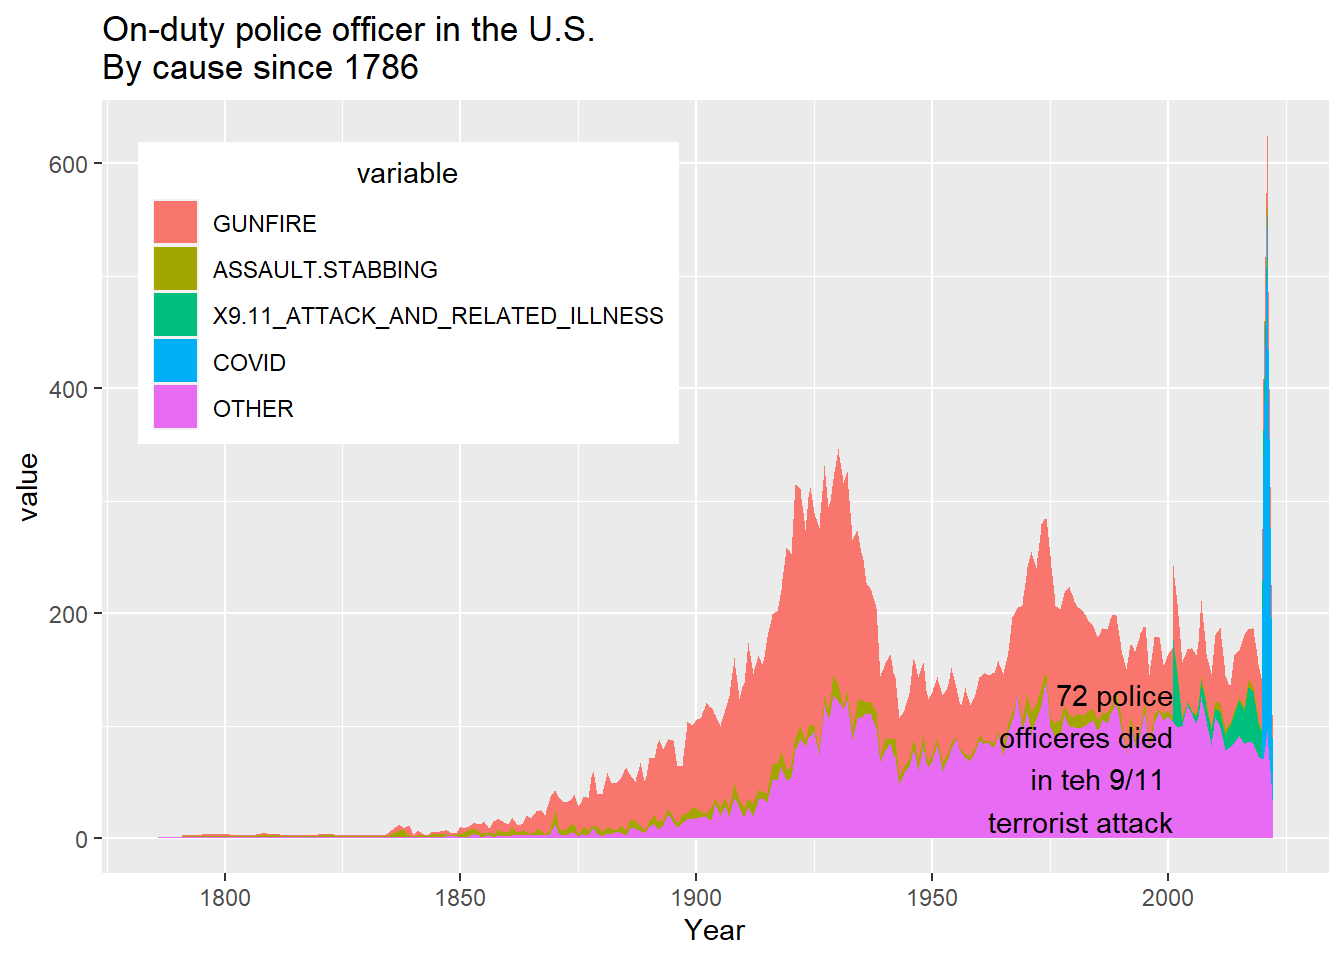
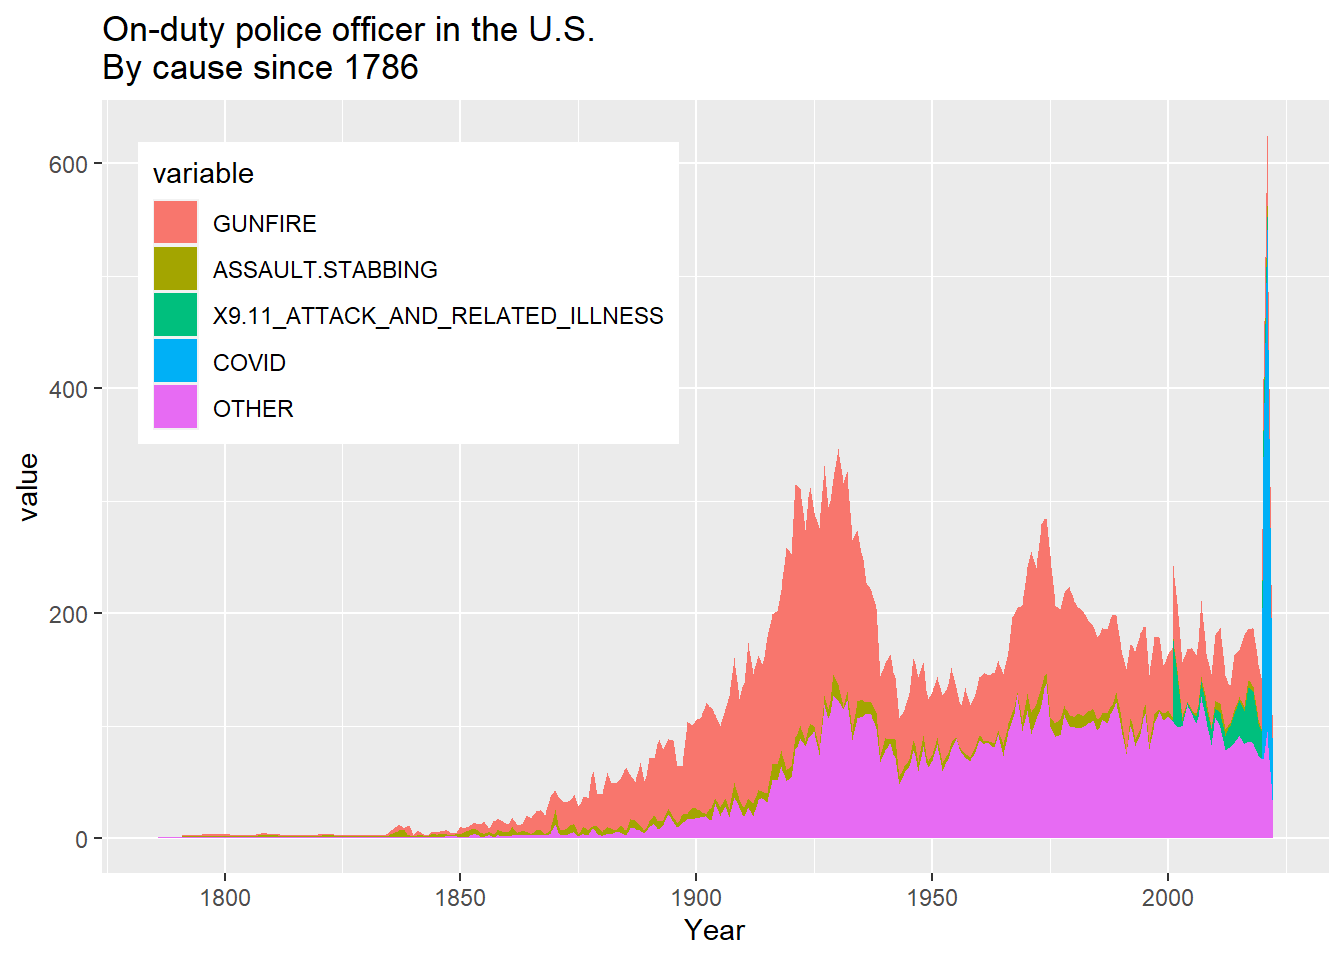
additional changes to code script for viz

Changed region(s): [[0.7188, 0.7188, 0.875, 0.875], [0.25, 0.1562, 0.3438, 0.1875], [0.125, 0.1562, 0.1875, 0.1875]]

diff --git a/docs/visualization_exercise.html b/docs/visualization_exercise.html
@@ -228,9 +228,9 @@ code span.wa { color: #60a0b0; font-weight: bold; font-style: italic; } /* Warni
 </div>
 </div>
 <div class="cell">
-<div class="sourceCode cell-code" id="cb6"><pre class="sourceCode r code-with-copy"><code class="sourceCode r"><span id="cb6-1"><a href="#cb6-1" aria-hidden="true" tabindex="-1"></a>lawdata<span class="ot">&lt;-</span><span class="fu">read.csv</span>(<span class="st">"data/lawenforcementdata.csv"</span>)</span></code><button title="Copy to Clipboard" class="code-copy-button"><i class="bi"></i></button></pre></div>
+<div class="sourceCode cell-code" id="cb6"><pre class="sourceCode r code-with-copy"><code class="sourceCode r"><span id="cb6-1"><a href="#cb6-1" aria-hidden="true" tabindex="-1"></a>lawdata<span class="ot">&lt;-</span><span class="fu">read.csv</span>(<span class="fu">here</span>(<span class="st">"data/lawenforcementdata.csv"</span>))</span></code><button title="Copy to Clipboard" class="code-copy-button"><i class="bi"></i></button></pre></div>
 </div>
-<p>Data summary. The available data varies from the year 1786 to 2022 for Gunfire, Assault/Stabbing, 9/11 and related illness, COVID and other.</p>
+<p>Data summary. The available data begins from the year 1786 to 2022 and cause of death includes Gunfire, Assault/Stabbing, 9/11 and related illness, COVID and other.</p>
 <div class="cell">
 <div class="sourceCode cell-code" id="cb7"><pre class="sourceCode r code-with-copy"><code class="sourceCode r"><span id="cb7-1"><a href="#cb7-1" aria-hidden="true" tabindex="-1"></a>message<span class="ot">=</span><span class="cn">FALSE</span></span>
 <span id="cb7-2"><a href="#cb7-2" aria-hidden="true" tabindex="-1"></a><span class="fu">summary</span>(lawdata)</span></code><button title="Copy to Clipboard" class="code-copy-button"><i class="bi"></i></button></pre></div>
@@ -1449,24 +1449,113 @@ code span.wa { color: #60a0b0; font-weight: bold; font-style: italic; } /* Warni
 </div>
 </div>
 <div class="cell">
-<div class="sourceCode cell-code" id="cb12"><pre class="sourceCode r code-with-copy"><code class="sourceCode r"><span id="cb12-1"><a href="#cb12-1" aria-hidden="true" tabindex="-1"></a><span class="fu">ggplot</span>(data_long1,<span class="fu">aes</span>(<span class="at">x=</span>Year,<span class="at">y=</span>value, <span class="at">fill=</span>variable))<span class="sc">+</span><span class="fu">geom_area</span>()<span class="sc">+</span></span>
-<span id="cb12-2"><a href="#cb12-2" aria-hidden="true" tabindex="-1"></a><span class="fu">ggtitle</span>(<span class="st">"On-duty police officer in the U.S. </span></span>
-<span id="cb12-3"><a href="#cb12-3" aria-hidden="true" tabindex="-1"></a><span class="st">By cause since 1786"</span>) <span class="sc">+</span> <span class="fu">theme</span>(<span class="at">legend.position=</span><span class="fu">c</span>(.<span class="dv">25</span>,.<span class="dv">75</span>))</span></code><button title="Copy to Clipboard" class="code-copy-button"><i class="bi"></i></button></pre></div>
-<div class="cell-output cell-output-stderr">
-<pre><code>Warning: Removed 598 rows containing non-finite values (`stat_align()`).</code></pre>
+<div class="sourceCode cell-code" id="cb12"><pre class="sourceCode r code-with-copy"><code class="sourceCode r"><span id="cb12-1"><a href="#cb12-1" aria-hidden="true" tabindex="-1"></a><span class="fu">complete.cases</span>(data_long1) </span></code><button title="Copy to Clipboard" class="code-copy-button"><i class="bi"></i></button></pre></div>
+<div class="cell-output cell-output-stdout">
+<pre><code>   [1] FALSE FALSE FALSE FALSE FALSE  TRUE  TRUE FALSE  TRUE FALSE FALSE  TRUE
+  [13] FALSE FALSE FALSE FALSE FALSE FALSE  TRUE FALSE FALSE  TRUE  TRUE FALSE
+  [25]  TRUE  TRUE FALSE FALSE  TRUE FALSE FALSE FALSE FALSE FALSE FALSE FALSE
+  [37] FALSE FALSE FALSE  TRUE FALSE FALSE  TRUE FALSE FALSE FALSE FALSE FALSE
+  [49]  TRUE FALSE FALSE  TRUE  TRUE  TRUE  TRUE  TRUE  TRUE  TRUE  TRUE  TRUE
+  [61] FALSE  TRUE  TRUE  TRUE  TRUE  TRUE  TRUE FALSE  TRUE  TRUE  TRUE  TRUE
+  [73]  TRUE  TRUE  TRUE  TRUE  TRUE  TRUE  TRUE  TRUE  TRUE  TRUE  TRUE  TRUE
+  [85]  TRUE  TRUE  TRUE  TRUE  TRUE  TRUE  TRUE  TRUE  TRUE  TRUE  TRUE  TRUE
+  [97]  TRUE  TRUE  TRUE  TRUE  TRUE  TRUE  TRUE  TRUE  TRUE  TRUE  TRUE  TRUE
+ [109]  TRUE  TRUE  TRUE  TRUE  TRUE  TRUE  TRUE  TRUE  TRUE  TRUE  TRUE  TRUE
+ [121]  TRUE  TRUE  TRUE  TRUE  TRUE  TRUE  TRUE  TRUE  TRUE  TRUE  TRUE  TRUE
+ [133]  TRUE  TRUE  TRUE  TRUE  TRUE  TRUE  TRUE  TRUE  TRUE  TRUE  TRUE  TRUE
+ [145]  TRUE  TRUE  TRUE  TRUE  TRUE  TRUE  TRUE  TRUE  TRUE  TRUE  TRUE  TRUE
+ [157]  TRUE  TRUE  TRUE  TRUE  TRUE  TRUE  TRUE  TRUE  TRUE  TRUE  TRUE  TRUE
+ [169]  TRUE  TRUE  TRUE  TRUE  TRUE  TRUE  TRUE  TRUE  TRUE  TRUE  TRUE  TRUE
+ [181]  TRUE  TRUE  TRUE  TRUE  TRUE  TRUE  TRUE  TRUE  TRUE  TRUE  TRUE  TRUE
+ [193]  TRUE  TRUE  TRUE  TRUE  TRUE  TRUE  TRUE  TRUE  TRUE  TRUE  TRUE  TRUE
+ [205]  TRUE  TRUE  TRUE  TRUE  TRUE  TRUE  TRUE  TRUE  TRUE  TRUE  TRUE  TRUE
+ [217]  TRUE  TRUE  TRUE  TRUE  TRUE  TRUE  TRUE  TRUE  TRUE  TRUE  TRUE  TRUE
+ [229]  TRUE  TRUE  TRUE  TRUE  TRUE  TRUE  TRUE  TRUE  TRUE FALSE FALSE FALSE
+ [241] FALSE FALSE  TRUE FALSE FALSE FALSE FALSE FALSE FALSE FALSE FALSE FALSE
+ [253] FALSE FALSE FALSE FALSE FALSE  TRUE FALSE  TRUE FALSE FALSE FALSE FALSE
+ [265] FALSE  TRUE FALSE  TRUE FALSE  TRUE FALSE FALSE FALSE FALSE  TRUE  TRUE
+ [277]  TRUE FALSE  TRUE  TRUE  TRUE  TRUE FALSE  TRUE  TRUE  TRUE FALSE  TRUE
+ [289]  TRUE  TRUE  TRUE  TRUE  TRUE FALSE  TRUE  TRUE  TRUE FALSE  TRUE  TRUE
+ [301]  TRUE  TRUE  TRUE  TRUE  TRUE  TRUE  TRUE  TRUE  TRUE  TRUE FALSE  TRUE
+ [313]  TRUE  TRUE  TRUE  TRUE  TRUE  TRUE  TRUE  TRUE  TRUE  TRUE  TRUE  TRUE
+ [325]  TRUE  TRUE  TRUE  TRUE  TRUE  TRUE  TRUE  TRUE  TRUE  TRUE  TRUE  TRUE
+ [337]  TRUE  TRUE  TRUE  TRUE  TRUE  TRUE  TRUE  TRUE  TRUE  TRUE  TRUE  TRUE
+ [349]  TRUE  TRUE  TRUE  TRUE  TRUE  TRUE  TRUE  TRUE  TRUE  TRUE  TRUE  TRUE
+ [361]  TRUE  TRUE  TRUE  TRUE  TRUE  TRUE  TRUE  TRUE  TRUE  TRUE  TRUE  TRUE
+ [373]  TRUE  TRUE  TRUE  TRUE  TRUE  TRUE  TRUE  TRUE  TRUE  TRUE  TRUE  TRUE
+ [385]  TRUE  TRUE  TRUE  TRUE  TRUE  TRUE  TRUE  TRUE  TRUE  TRUE  TRUE  TRUE
+ [397]  TRUE  TRUE  TRUE  TRUE  TRUE  TRUE  TRUE  TRUE  TRUE  TRUE  TRUE  TRUE
+ [409]  TRUE  TRUE FALSE  TRUE  TRUE  TRUE  TRUE  TRUE  TRUE  TRUE  TRUE  TRUE
+ [421]  TRUE  TRUE  TRUE  TRUE  TRUE  TRUE  TRUE  TRUE  TRUE  TRUE  TRUE  TRUE
+ [433]  TRUE  TRUE  TRUE  TRUE  TRUE  TRUE  TRUE  TRUE  TRUE  TRUE  TRUE  TRUE
+ [445]  TRUE  TRUE  TRUE  TRUE  TRUE  TRUE  TRUE  TRUE  TRUE  TRUE  TRUE  TRUE
+ [457]  TRUE  TRUE FALSE  TRUE  TRUE  TRUE  TRUE  TRUE  TRUE  TRUE  TRUE  TRUE
+ [469]  TRUE  TRUE  TRUE  TRUE  TRUE FALSE FALSE FALSE FALSE FALSE FALSE FALSE
+ [481] FALSE FALSE FALSE FALSE FALSE FALSE FALSE FALSE FALSE FALSE FALSE FALSE
+ [493] FALSE FALSE FALSE FALSE FALSE FALSE FALSE FALSE FALSE FALSE FALSE FALSE
+ [505] FALSE FALSE FALSE FALSE FALSE FALSE FALSE FALSE FALSE FALSE FALSE FALSE
+ [517] FALSE FALSE FALSE FALSE FALSE FALSE FALSE FALSE FALSE FALSE FALSE FALSE
+ [529] FALSE FALSE FALSE FALSE FALSE FALSE FALSE FALSE FALSE FALSE FALSE FALSE
+ [541] FALSE FALSE FALSE FALSE FALSE FALSE FALSE FALSE FALSE FALSE FALSE FALSE
+ [553] FALSE FALSE FALSE FALSE FALSE FALSE FALSE FALSE FALSE FALSE FALSE FALSE
+ [565] FALSE FALSE FALSE FALSE FALSE FALSE FALSE FALSE FALSE FALSE FALSE FALSE
+ [577] FALSE FALSE FALSE FALSE FALSE FALSE FALSE FALSE FALSE FALSE FALSE FALSE
+ [589] FALSE FALSE FALSE FALSE FALSE FALSE FALSE FALSE FALSE FALSE FALSE FALSE
+ [601] FALSE FALSE FALSE FALSE FALSE FALSE FALSE FALSE FALSE FALSE FALSE FALSE
+ [613] FALSE FALSE FALSE FALSE FALSE FALSE FALSE FALSE FALSE FALSE FALSE FALSE
+ [625] FALSE FALSE FALSE FALSE FALSE FALSE FALSE FALSE FALSE FALSE FALSE FALSE
+ [637] FALSE FALSE FALSE FALSE FALSE FALSE FALSE FALSE FALSE FALSE FALSE FALSE
+ [649] FALSE FALSE FALSE FALSE FALSE FALSE FALSE FALSE FALSE FALSE FALSE FALSE
+ [661] FALSE FALSE FALSE FALSE FALSE FALSE FALSE FALSE FALSE FALSE FALSE FALSE
+ [673] FALSE FALSE FALSE FALSE FALSE FALSE FALSE FALSE FALSE FALSE FALSE FALSE
+ [685] FALSE FALSE FALSE FALSE FALSE  TRUE FALSE  TRUE  TRUE  TRUE  TRUE  TRUE
+ [697]  TRUE  TRUE  TRUE  TRUE  TRUE  TRUE  TRUE  TRUE  TRUE  TRUE  TRUE  TRUE
+ [709]  TRUE  TRUE FALSE FALSE FALSE FALSE FALSE FALSE FALSE FALSE FALSE FALSE
+ [721] FALSE FALSE FALSE FALSE FALSE FALSE FALSE FALSE FALSE FALSE FALSE FALSE
+ [733] FALSE FALSE FALSE FALSE FALSE FALSE FALSE FALSE FALSE FALSE FALSE FALSE
+ [745] FALSE FALSE FALSE FALSE FALSE FALSE FALSE FALSE FALSE FALSE FALSE FALSE
+ [757] FALSE FALSE FALSE FALSE FALSE FALSE FALSE FALSE FALSE FALSE FALSE FALSE
+ [769] FALSE FALSE FALSE FALSE FALSE FALSE FALSE FALSE FALSE FALSE FALSE FALSE
+ [781] FALSE FALSE FALSE FALSE FALSE FALSE FALSE FALSE FALSE FALSE FALSE FALSE
+ [793] FALSE FALSE FALSE FALSE FALSE FALSE FALSE FALSE FALSE FALSE FALSE FALSE
+ [805] FALSE FALSE FALSE FALSE FALSE FALSE FALSE FALSE FALSE FALSE FALSE FALSE
+ [817] FALSE FALSE FALSE FALSE FALSE FALSE FALSE FALSE FALSE FALSE FALSE FALSE
+ [829] FALSE FALSE FALSE FALSE FALSE FALSE FALSE FALSE FALSE FALSE FALSE FALSE
+ [841] FALSE FALSE FALSE FALSE FALSE FALSE FALSE FALSE FALSE FALSE FALSE FALSE
+ [853] FALSE FALSE FALSE FALSE FALSE FALSE FALSE FALSE FALSE FALSE FALSE FALSE
+ [865] FALSE FALSE FALSE FALSE FALSE FALSE FALSE FALSE FALSE FALSE FALSE FALSE
+ [877] FALSE FALSE FALSE FALSE FALSE FALSE FALSE FALSE FALSE FALSE FALSE FALSE
+ [889] FALSE FALSE FALSE FALSE FALSE FALSE FALSE FALSE FALSE FALSE FALSE FALSE
+ [901] FALSE FALSE FALSE FALSE FALSE FALSE FALSE FALSE FALSE FALSE FALSE FALSE
+ [913] FALSE FALSE FALSE FALSE FALSE FALSE FALSE FALSE FALSE FALSE FALSE FALSE
+ [925] FALSE FALSE FALSE FALSE FALSE FALSE FALSE FALSE FALSE FALSE FALSE FALSE
+ [937] FALSE FALSE FALSE FALSE FALSE FALSE FALSE FALSE FALSE  TRUE  TRUE  TRUE
+ [949]  TRUE FALSE FALSE FALSE FALSE FALSE FALSE FALSE FALSE FALSE FALSE FALSE
+ [961]  TRUE FALSE FALSE FALSE FALSE FALSE FALSE FALSE FALSE FALSE FALSE FALSE
+ [973] FALSE FALSE FALSE FALSE FALSE FALSE FALSE FALSE FALSE FALSE FALSE FALSE
+ [985] FALSE FALSE FALSE FALSE FALSE FALSE FALSE FALSE FALSE FALSE FALSE FALSE
+ [997] FALSE FALSE FALSE FALSE FALSE  TRUE FALSE FALSE FALSE  TRUE FALSE FALSE
+[1009] FALSE FALSE FALSE  TRUE  TRUE  TRUE FALSE  TRUE FALSE  TRUE  TRUE  TRUE
+[1021]  TRUE  TRUE FALSE FALSE FALSE  TRUE  TRUE FALSE FALSE FALSE  TRUE  TRUE
+[1033]  TRUE  TRUE  TRUE  TRUE  TRUE  TRUE  TRUE  TRUE  TRUE  TRUE  TRUE  TRUE
+[1045]  TRUE  TRUE  TRUE  TRUE  TRUE  TRUE  TRUE  TRUE  TRUE  TRUE  TRUE  TRUE
+[1057]  TRUE  TRUE  TRUE  TRUE  TRUE  TRUE  TRUE  TRUE  TRUE  TRUE  TRUE  TRUE
+[1069]  TRUE  TRUE  TRUE  TRUE  TRUE  TRUE  TRUE  TRUE  TRUE  TRUE  TRUE  TRUE
+[1081]  TRUE  TRUE  TRUE  TRUE  TRUE  TRUE  TRUE  TRUE  TRUE  TRUE  TRUE  TRUE
+[1093]  TRUE  TRUE  TRUE  TRUE  TRUE  TRUE  TRUE  TRUE  TRUE  TRUE  TRUE  TRUE
+[1105]  TRUE  TRUE  TRUE  TRUE  TRUE  TRUE  TRUE  TRUE  TRUE  TRUE  TRUE  TRUE
+[1117]  TRUE  TRUE  TRUE  TRUE  TRUE  TRUE  TRUE  TRUE  TRUE  TRUE  TRUE  TRUE
+[1129]  TRUE  TRUE  TRUE  TRUE  TRUE  TRUE  TRUE  TRUE  TRUE  TRUE  TRUE  TRUE
+[1141]  TRUE  TRUE  TRUE  TRUE  TRUE  TRUE  TRUE  TRUE  TRUE  TRUE  TRUE  TRUE
+[1153]  TRUE  TRUE  TRUE  TRUE  TRUE  TRUE  TRUE  TRUE  TRUE  TRUE  TRUE  TRUE
+[1165]  TRUE  TRUE  TRUE  TRUE  TRUE  TRUE  TRUE  TRUE  TRUE  TRUE  TRUE  TRUE
+[1177]  TRUE  TRUE  TRUE  TRUE  TRUE  TRUE  TRUE  TRUE  TRUE</code></pre>
 </div>
-<div class="cell-output-display">
-<p><img src="visualization_exercise_files/figure-html/unnamed-chunk-6-1.png" class="img-fluid" width="672"></p>
 </div>
-</div>
-<p>#I tried adding the theme_fivethirtyeight to match the aesthetics but it doesnt look like it worked? The code I used to remove the legend title variable didnt seem to work either.</p>
 <div class="cell">
 <div class="sourceCode cell-code" id="cb14"><pre class="sourceCode r code-with-copy"><code class="sourceCode r"><span id="cb14-1"><a href="#cb14-1" aria-hidden="true" tabindex="-1"></a><span class="fu">ggplot</span>(data_long1,<span class="fu">aes</span>(<span class="at">x=</span>Year,<span class="at">y=</span>value, <span class="at">fill=</span>variable))<span class="sc">+</span><span class="fu">geom_area</span>()<span class="sc">+</span></span>
 <span id="cb14-2"><a href="#cb14-2" aria-hidden="true" tabindex="-1"></a><span class="fu">ggtitle</span>(<span class="st">"On-duty police officer in the U.S. </span></span>
-<span id="cb14-3"><a href="#cb14-3" aria-hidden="true" tabindex="-1"></a><span class="st">By cause since 1786"</span>) <span class="sc">+</span> <span class="fu">theme</span>(<span class="at">legend.position=</span><span class="fu">c</span>(.<span class="dv">25</span>,.<span class="dv">75</span>)) <span class="sc">+</span> <span class="fu">theme</span>(<span class="at">legend.title=</span><span class="fu">element_blank</span>()<span class="sc">+</span> <span class="fu">theme_fivethirtyeight</span>())<span class="sc">+</span> <span class="fu">annotate</span>(<span class="at">geom=</span><span class="st">"text"</span>,<span class="at">x=</span><span class="dv">2001</span>,<span class="at">y=</span><span class="dv">72</span>, <span class="at">label =</span><span class="st">"72 police</span></span>
-<span id="cb14-4"><a href="#cb14-4" aria-hidden="true" tabindex="-1"></a><span class="st">                                                                                                                                   officeres died</span></span>
-<span id="cb14-5"><a href="#cb14-5" aria-hidden="true" tabindex="-1"></a><span class="st">                                                                                                                                   in teh 9/11 </span></span>
-<span id="cb14-6"><a href="#cb14-6" aria-hidden="true" tabindex="-1"></a><span class="st">                                                                                                                                   terrorist attack"</span>, <span class="at">hjust=</span><span class="st">"top"</span>)</span></code><button title="Copy to Clipboard" class="code-copy-button"><i class="bi"></i></button></pre></div>
+<span id="cb14-3"><a href="#cb14-3" aria-hidden="true" tabindex="-1"></a><span class="st">By cause since 1786"</span>) <span class="sc">+</span> <span class="fu">theme</span>(<span class="at">legend.position=</span><span class="fu">c</span>(.<span class="dv">25</span>,.<span class="dv">75</span>))</span></code><button title="Copy to Clipboard" class="code-copy-button"><i class="bi"></i></button></pre></div>
 <div class="cell-output cell-output-stderr">
 <pre><code>Warning: Removed 598 rows containing non-finite values (`stat_align()`).</code></pre>
 </div>
@@ -1474,6 +1563,9 @@ code span.wa { color: #60a0b0; font-weight: bold; font-style: italic; } /* Warni
 <p><img src="visualization_exercise_files/figure-html/unnamed-chunk-7-1.png" class="img-fluid" width="672"></p>
 </div>
 </div>
+<p>~~~~~~~~~~~~~~</p>
+<p>#I tried adding the theme_fivethirtyeight to match the aesthetics but it doesnt look like it worked. The code I used to remove the legend title variable didnt seem to work either. ggplot(data_long1,aes(x=Year,y=value, fill=variable))+geom_area()+ ggtitle(“On-duty police officer in the U.S. By cause since 1786”) + theme(legend.position=c(.25,.75)) + theme(legend.title=element_blank()+ theme_fivethirtyeight())+ annotate(geom=“text”,x=2001,y=72, label =“72 police officeres died in the 9/11terrorist attack”, hjust=“top”)</p>
+<p>~~~~~~~~~~~~~~~</p>
 <p>This was a very useful exercise. The most important thing I learned was the importance of the data structure and how it needs to be manipulated to fit into a data structure (wide or long) in order for it to be compatible with the chart type you are using. Finding the specific color codes and background shades was very challenging. I did try to use theme_fivethirtyeight get the overall colors and themes to match but it doesn’t look like it worked.</p>
 
 
